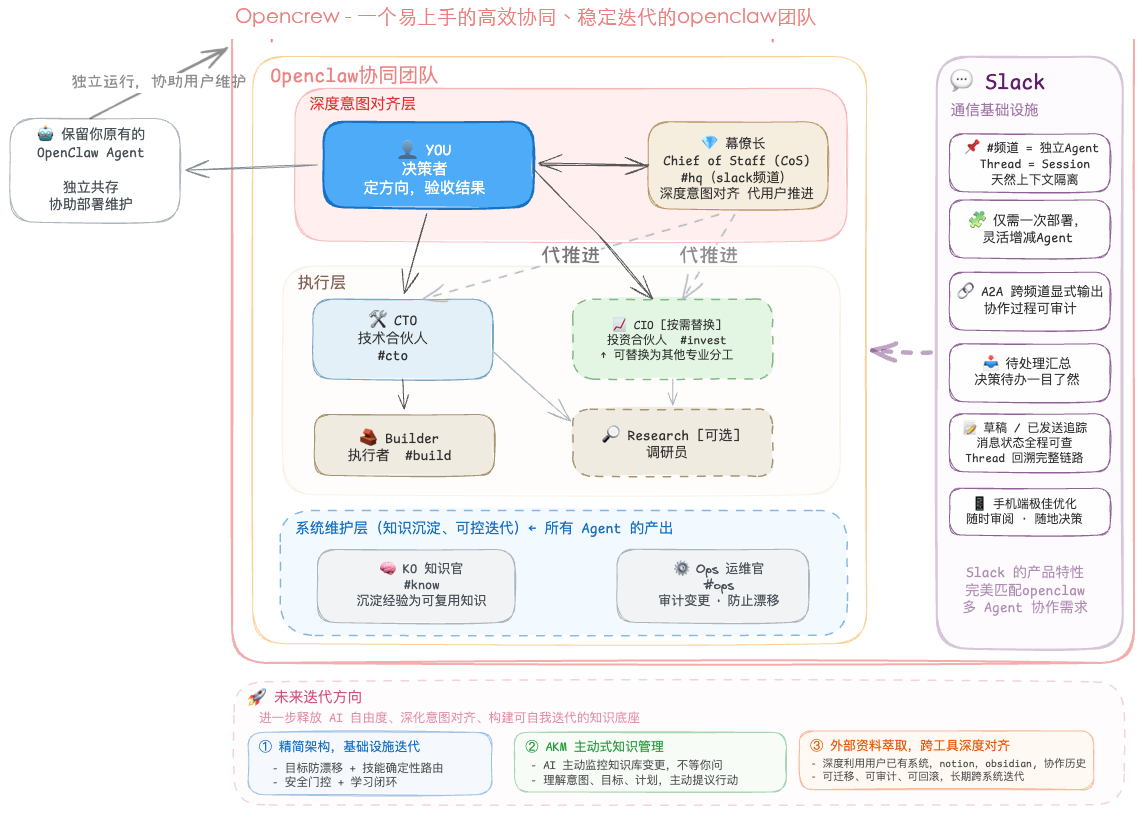
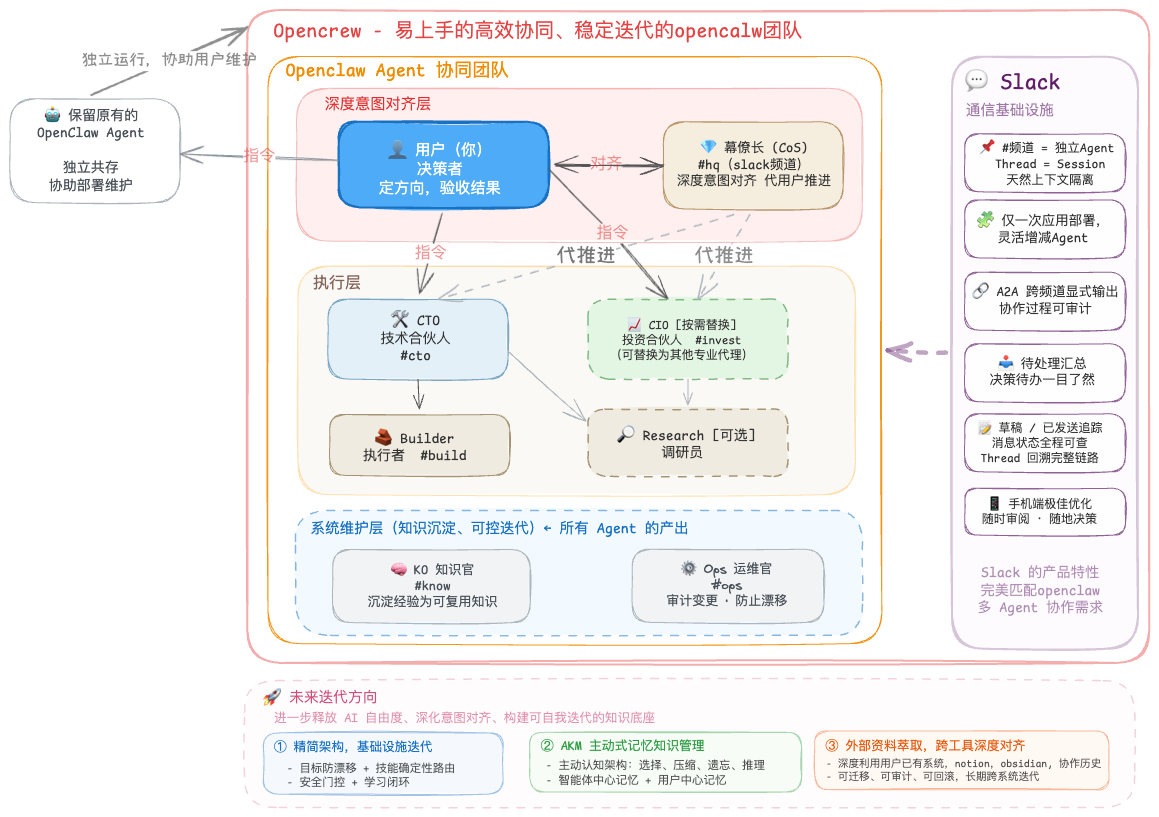
docs: 更新架构图 + README 添加截图展示
- 替换为最新版架构图（含三层架构详细说明和未来迭代方向）
- 架构描述改用表格布局，更紧凑
- 新增"实际运行效果"截图展示（3 张并排：频道总览、A2A 派单、手机端待办）

diff --git a/README.md b/README.md
@@ -47,19 +47,25 @@
 
 OpenCrew 分为三层，每层职责清晰：
 
-**第一层：意图对齐** — 你 + CoS（幕僚长）
-
-你是决策者，只管定方向和验收结果。CoS 是你的战略伙伴——帮你对齐深层目标，你不在时代为推进。CoS 不是网关，你想跟谁聊直接进哪个频道。
-
-**第二层：执行** — CTO / Builder / CIO / Research
-
-CTO 负责拆解和架构，Builder 负责实现，CIO 是领域专家（默认投资方向，可换成法律、营销等任何领域），Research 按需调研。
-
-**第三层：系统维护** — KO + Ops
-
-KO（知识官）从所有产出中提炼可复用知识；Ops（运维官）审计系统变更、防止漂移。这两个不做业务，只维护系统健康。
+| 层级 | 角色 | 职责 |
+|------|------|------|
+| **意图对齐** | 你 + CoS（幕僚长） | 定方向、验收结果。CoS 帮你对齐深层目标，你不在时代为推进。**CoS 不是网关，你想跟谁聊直接进哪个频道。** |
+| **执行** | CTO / Builder / CIO / Research | CTO 拆解架构，Builder 实现，CIO 是可替换的领域专家（投资/法律/营销），Research 按需调研。 |
+| **系统维护** | KO + Ops | KO 从产出中提炼可复用知识；Ops 审计变更、防止漂移。不做业务，只维护系统健康。 |
 
 > 最小可用：CoS + CTO + Builder（3 个 Agent 就能跑起来）。KO/Ops/CIO/Research 按需添加。
+
+### 实际运行效果
+
+<table>
+<tr>
+<td width="33%"><img src="assets/screenshots/mac-1.jpg" alt="多频道协作总览"><br><sub><b>频道 = 岗位</b>：左侧一目了然</sub></td>
+<td width="33%"><img src="assets/screenshots/mac-3.jpg" alt="A2A 派单"><br><sub><b>A2A 派单</b>：CTO → Builder 全程可审计</sub></td>
+<td width="33%"><img src="assets/screenshots/mobile-3.jpg" alt="手机端待办"><br><sub><b>手机端</b>：Unreads = 决策待办</sub></td>
+</tr>
+</table>
+
+> 更多截图 → [截图展示](docs/SCREENSHOTS.md)
 
 ---
 
